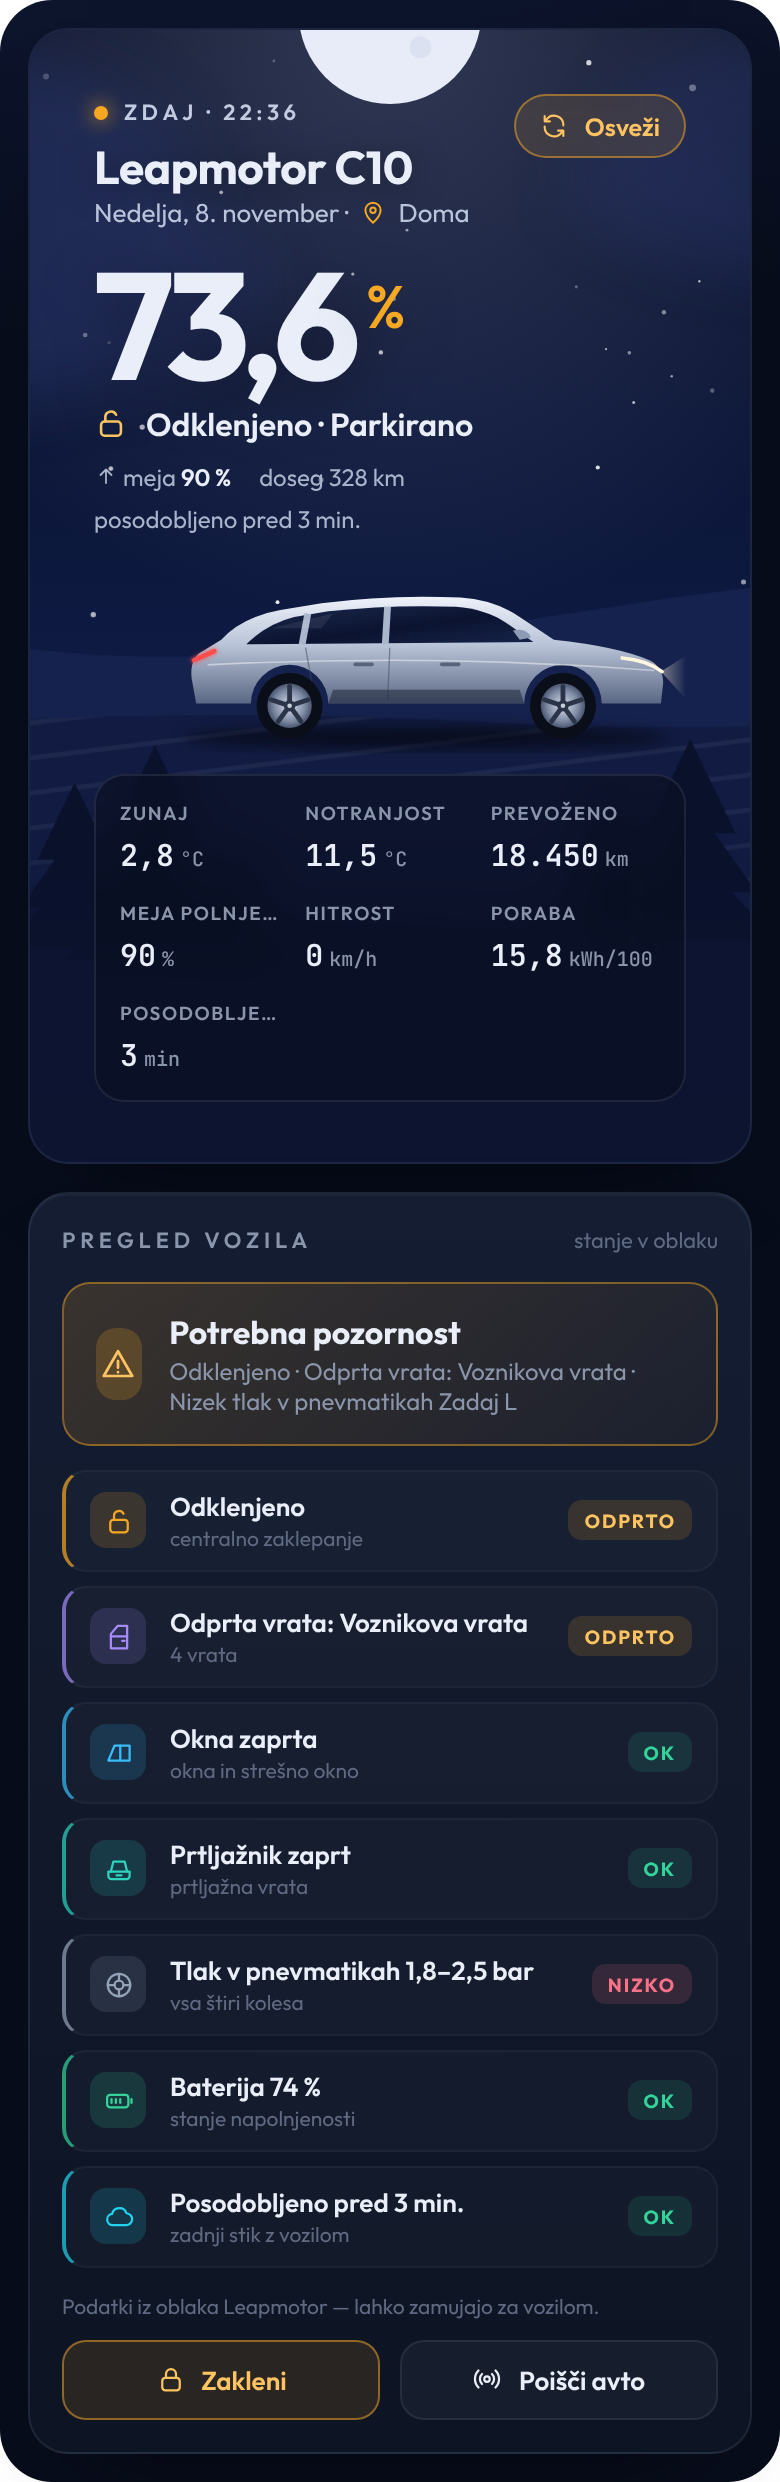
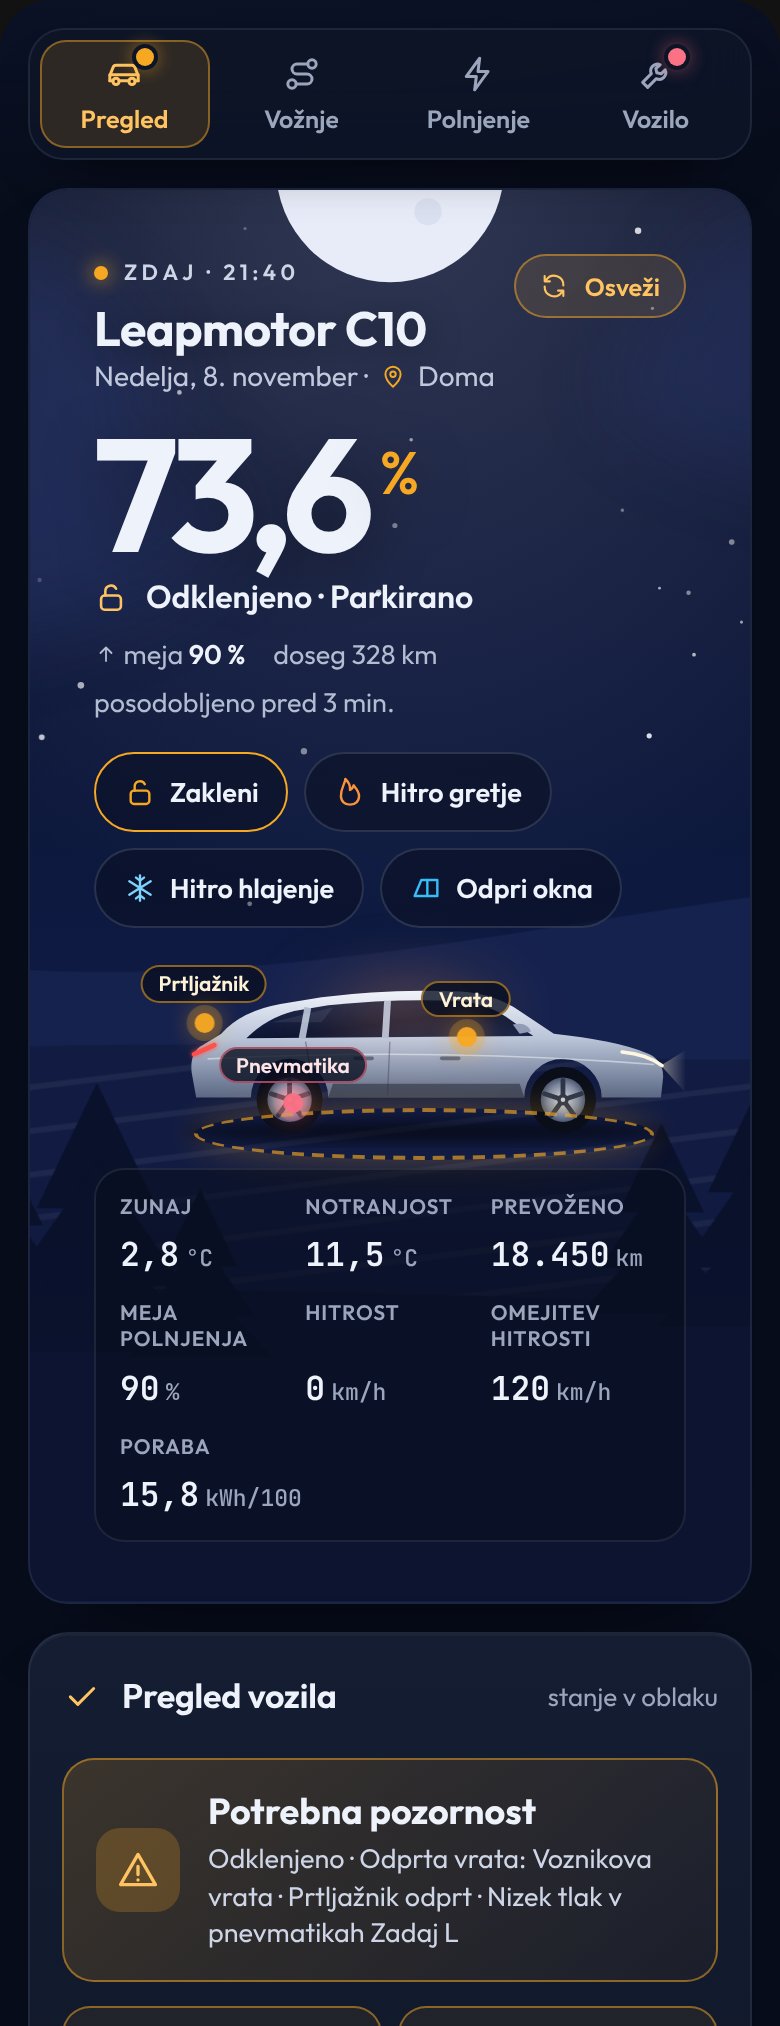
README: screenshots of the new pages, HACS update steps
- New screenshots from the demo preview: Overview (EN, SL), Trips (DE),
  phone Overview (SL) and one phone shot per page in the Slovenian README.
  The remote-control image shows the grouped panel. Old phone image removed.
- Slovenian README shows the four pages side by side with what each holds.
- HACS update steps (Update information, Redownload, restart, Ctrl + F5) in
  both READMEs and the Slovenian guide.
- Card: hero metric labels wrap instead of being cut off.

diff --git a/custom_components/leapmotor/frontend/leapmotor-card.js b/custom_components/leapmotor/frontend/leapmotor-card.js
@@ -808,8 +808,8 @@ button{font:inherit;color:inherit;cursor:pointer;border:0;background:none;paddin
 .spin .ic{animation:lm-spin 1s linear infinite}
 .strip{grid-area:strip;display:grid;grid-template-columns:repeat(auto-fit,minmax(104px,1fr));gap:12px 8px;padding:13px 16px;border-radius:15px;
   background:rgba(8,13,29,.58);border:1px solid rgba(148,163,184,.15);backdrop-filter:blur(12px);-webkit-backdrop-filter:blur(12px)}
-.cell{min-width:0}
-.cell .l{font-size:11px;font-weight:600;letter-spacing:.14em;text-transform:uppercase;color:var(--lm-muted);white-space:nowrap;overflow:hidden;text-overflow:ellipsis}
+.cell{min-width:0;display:flex;flex-direction:column;justify-content:space-between}
+.cell .l{font-size:11px;font-weight:600;letter-spacing:.14em;line-height:1.25;text-transform:uppercase;color:var(--lm-muted);overflow-wrap:anywhere;hyphens:auto}
 .cell .v{font-family:var(--lm-mono);font-size:16.5px;font-weight:600;margin-top:6px;white-space:nowrap}
 .cell .v small{font-size:11.5px;color:var(--lm-muted);font-weight:500;margin-left:3px}
 

diff --git a/README.md b/README.md
@@ -58,39 +58,47 @@
 3. **Nastavitve → Naprave in storitve → Dodaj integracijo → Leapmotor**.
 4. Naloži oba certifikata in vpiši račun. Končano — v stranski vrstici se pojavi **Leapmotor**. 🎉
 
+**Posodobitev:** HACS namesti zadnjo različico z veje `main`. V HACS odpri Leapmotor → **⋮ → Posodobi informacije** (*Update information*) → **Prenesi znova** (*Redownload*) → znova zaženi Home Assistant. Če je kartica še stara, osveži brskalnik (**Ctrl + F5**).
+
 Ročna namestitev brez HACS in vse podrobnosti: **[navodila v slovenščini](docs/navodila-sl.md)**.
 
 <br>
 
 ## ✦ Nadzorna plošča
 
+**Plug & play:** po namestitvi se v stranski vrstici sama pojavi **Leapmotor** s celotno nadzorno ploščo. Ničesar ni treba nastavljati. Če imaš več vozil, ima vsako svojo. Skriješ jo v **Leapmotor → Nastavi** (stikalo *Prikaži nadzorno ploščo v stranski vrstici*).
+
+Kartica ima **štiri strani z zavihki**. Pika na zavihku pove, da je na tisti strani nekaj za pogledati.
+
 <table>
   <tr>
-    <td width="62%" valign="top">
-      <b>Plug &amp; play:</b> po namestitvi se v stranski vrstici sama pojavi <b>Leapmotor</b> s celotno nadzorno ploščo. Ničesar ni treba nastavljati. Če imaš več vozil, je na strani vsako svoje.
-      <br><br>
-      Skriješ jo v <b>Leapmotor → Nastavi</b> (stikalo <i>Prikaži nadzorno ploščo v stranski vrstici</i>).
-      <br><br>
-      Kartico lahko dodaš tudi na svojo nadzorno ploščo: <b>Dodaj kartico → Leapmotor</b> ali
-      <pre>type: custom:leapmotor-card</pre>
-      Kartica ima štiri strani z zavihki: <b>Pregled</b> (avto, pregled vozila in daljinsko upravljanje), <b>Vožnje</b> (vsaka vožnja z zemljevidom, hitrostjo in porabo), <b>Polnjenje</b> in <b>Vozilo</b> (vzdrževanje, pnevmatike, vpogledi).<br><br>
-      Takoj pod baterijo so hitri gumbi: <b>Zakleni/Odkleni</b>, <b>Hitro gretje</b>, <b>Hitro hlajenje</b> in <b>Odpri/Zapri okna</b>. Mejo polnjenja izbereš s − in + ter jo potrdiš z dvojnim tapom na <b>Nastavi</b>.<br><br>
-      Na telefonu se kartica sama preuredi v en stolpec. Ponoči je nočno nebo, podnevi dnevno, med polnjenjem pa se ob avtu prižge polnilnica.
-      <br><br>
-      Če kartice ne najde, enkrat osveži brskalnik (<b>Ctrl + F5</b>).
-    </td>
-    <td width="38%" valign="top">
-      <img src="docs/images/sl/telefon.png" alt="Na telefonu" width="100%">
-    </td>
+    <td width="25%" valign="top"><img src="docs/images/sl/stran-pregled.png" alt="Pregled" width="100%"></td>
+    <td width="25%" valign="top"><img src="docs/images/sl/stran-voznje.png" alt="Vožnje" width="100%"></td>
+    <td width="25%" valign="top"><img src="docs/images/sl/stran-polnjenje.png" alt="Polnjenje" width="100%"></td>
+    <td width="25%" valign="top"><img src="docs/images/sl/stran-vozilo.png" alt="Vozilo" width="100%"></td>
+  </tr>
+  <tr>
+    <td valign="top"><b>Pregled</b><br><sub>Avto z baterijo in hitrimi gumbi (<i>Odkleni, Hitro gretje, Hitro hlajenje, Okna</i>), pregled vozila in daljinsko upravljanje.</sub></td>
+    <td valign="top"><b>Vožnje</b><br><sub>Vsaka vožnja z zemljevidom, hitrostjo, porabo, baterijo in stroškom. Dnevnik po dnevih in zadnjih 7 dni.</sub></td>
+    <td valign="top"><b>Polnjenje</b><br><sub>Polnjenje, meja polnjenja (izberi s − in +, potrdi z dvojnim tapom na <i>Nastavi</i>), zadnjih 24 ur in zdravje baterije.</sub></td>
+    <td valign="top"><b>Vozilo</b><br><sub>Vzdrževanje, pnevmatike in vpogledi (stroški, praznjenje, poraba glede na temperaturo).</sub></td>
   </tr>
 </table>
+
+Kartico lahko dodaš tudi na svojo nadzorno ploščo: **Dodaj kartico → Leapmotor** ali
+
+```yaml
+type: custom:leapmotor-card
+```
+
+Ponoči je nočno nebo, podnevi dnevno, med polnjenjem pa se ob avtu prižge polnilnica. Če kartice ne najde, enkrat osveži brskalnik (**Ctrl + F5**).
 
 <br>
 
 ## ✦ Predgretje, hlajenje in upravljanje
 
 <p align="center">
-  <img src="docs/images/sl/upravljanje.png" alt="Vzdrževanje, vpogledi in daljinsko upravljanje" width="100%">
+  <img src="docs/images/sl/upravljanje.png" alt="Daljinsko upravljanje" width="100%">
 </p>
 
 - **Predgrej kabino** — 22 °C, ventilator 7, samo kroženje zraka

diff --git a/README.en.md b/README.en.md
@@ -33,7 +33,7 @@
 ## ✦ The dashboard
 
 <p align="center">
-  <img src="docs/images/dashboard.png" alt="Leapmotor dashboard at night while charging" width="100%">
+  <img src="docs/images/dashboard.png" alt="Overview page at night while charging" width="100%">
 </p>
 
 One card, everything about the car. It ships **inside** the integration and is
@@ -81,12 +81,12 @@ Four pages with tabs: **Overview** (car, vehicle check, remote control),
 <table>
   <tr>
     <td width="68%" valign="top">
-      <img src="docs/images/dashboard-day-de.png" alt="Day scene, German" width="100%">
-      <p align="center"><sub>Day sky, parked away from home — German</sub></p>
+      <img src="docs/images/dashboard-day-de.png" alt="Trips page, German" width="100%">
+      <p align="center"><sub>Trips page: trip details with map and speed chart, trip log, last 7 days — German</sub></p>
     </td>
     <td width="32%" valign="top">
       <img src="docs/images/mobile-sl.png" alt="Phone layout in Slovenian, needs attention" width="100%">
-      <p align="center"><sub>Phone layout — Slovenščina, “Potrebna pozornost”</sub></p>
+      <p align="center"><sub>Overview on a phone — Slovenščina, “Potrebna pozornost”</sub></p>
     </td>
   </tr>
 </table>
@@ -166,6 +166,11 @@ You need:
 2. Search for **Leapmotor** in HACS and **Download** it.
 3. **Restart** Home Assistant.
 4. Continue with [Set up the integration](#set-up-the-integration).
+
+**Updating:** HACS installs from the `main` branch (there are no releases).
+Open Leapmotor in HACS → **⋮ → Update information**, then **Redownload** and
+restart Home Assistant. If the card still looks old, refresh the browser
+(Ctrl + F5).
 
 ### ✦ Manual installation (step by step)
 

diff --git a/docs/navodila-sl.md b/docs/navodila-sl.md
@@ -264,8 +264,9 @@ certifikatov. Za javne prijave napak raje uporabi `leapmotor.export_diagnostics`
 
 ## Posodabljanje
 
-- **HACS:** v HACS odpri Leapmotor → **Prenesi znova** (*Redownload*) → znova
-  zaženi.
+- **HACS:** v HACS odpri Leapmotor → **⋮ → Posodobi informacije** (*Update
+  information*) → **Prenesi znova** (*Redownload*) → znova zaženi. Če je
+  kartica še stara, osveži brskalnik (**Ctrl + F5**).
 - **Ročno:** ponovi [1. korak](#1-namestitev-integracije) (zamenjaj mapo) in
   znova zaženi. Tvoja certifikata v `/config/leapmotor/` ostaneta nedotaknjena.
 

diff --git a/CHANGELOG.md b/CHANGELOG.md
@@ -27,6 +27,8 @@
   24-hour summary only counts rises while the car was charging.
 - New **Tires** panel on the Vehicle page; *Energy & tires* became
   *Battery & efficiency* on the Charging page.
+- Hero metric labels wrap instead of being cut off (e.g. *Meja polnjenja*).
+- README screenshots show the new pages.
 
 ## Unreleased — trip map, speed limit, live car picture, T03 charge limit
 

diff --git a/docs/card.md b/docs/card.md
@@ -1,5 +1,5 @@
 <p align="center">
-  <img src="images/dashboard.png" alt="Leapmotor dashboard card" width="100%">
+  <img src="images/dashboard.png" alt="Leapmotor dashboard card, Overview page" width="100%">
 </p>
 
 # Leapmotor dashboard card
